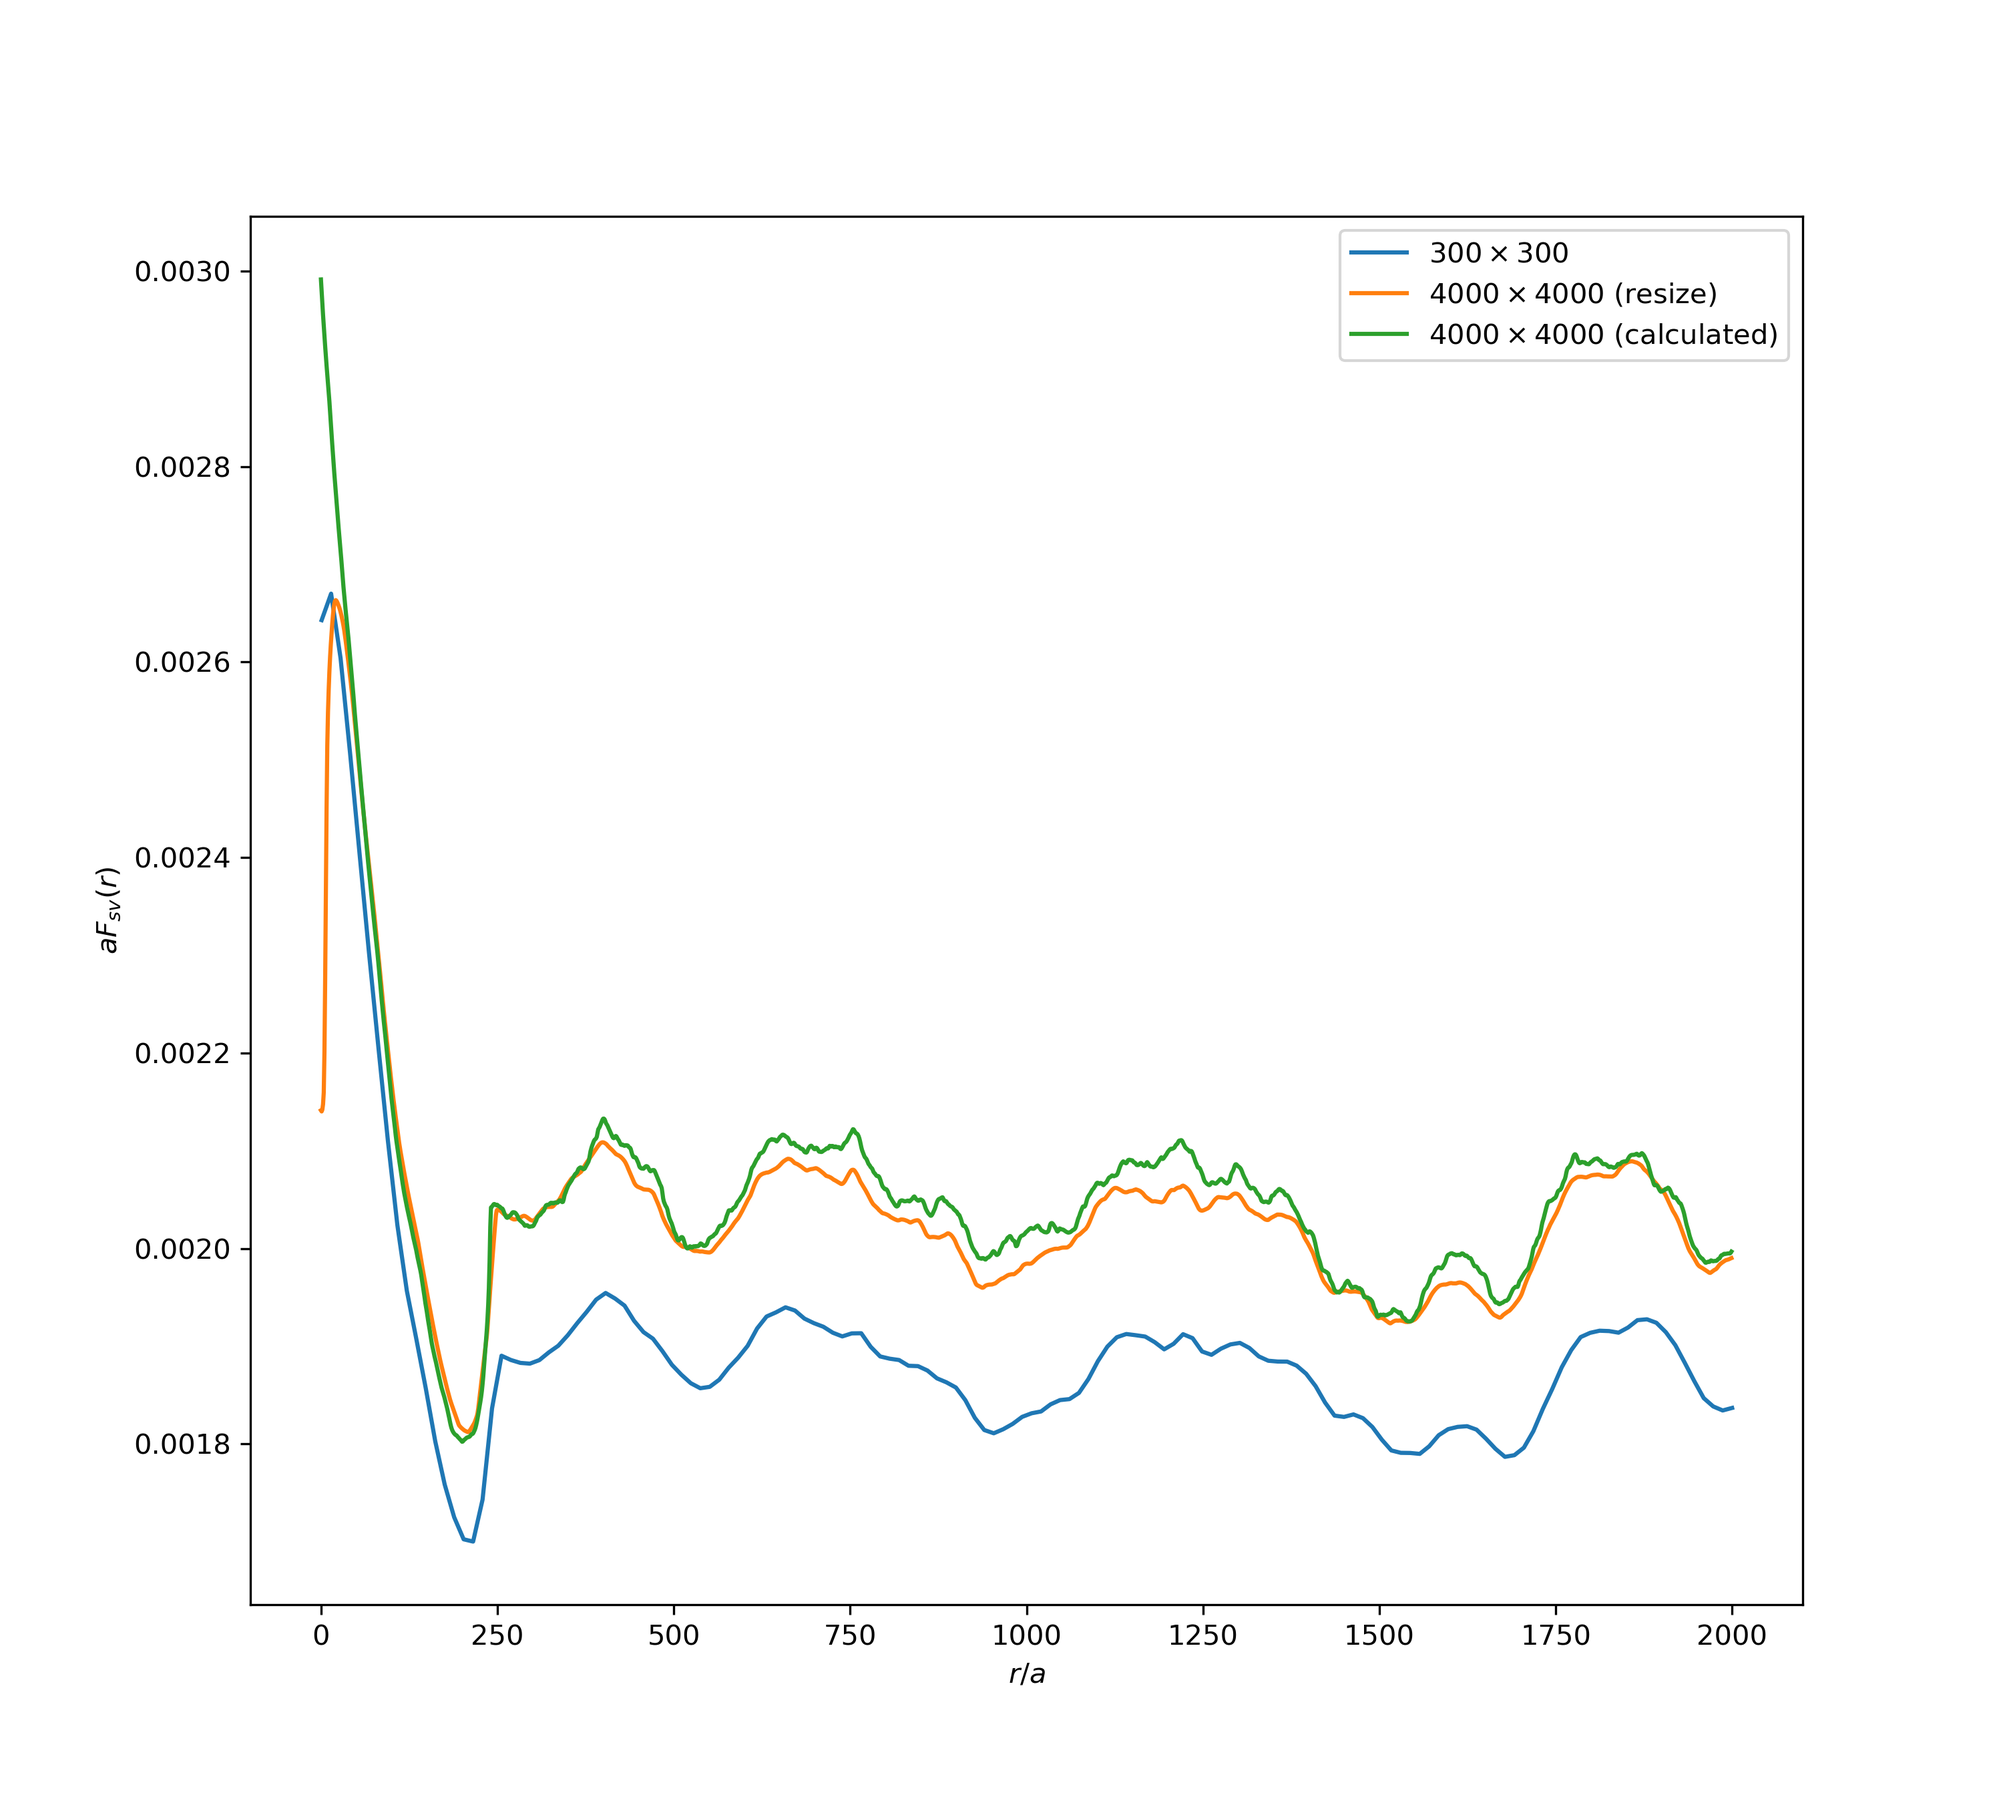
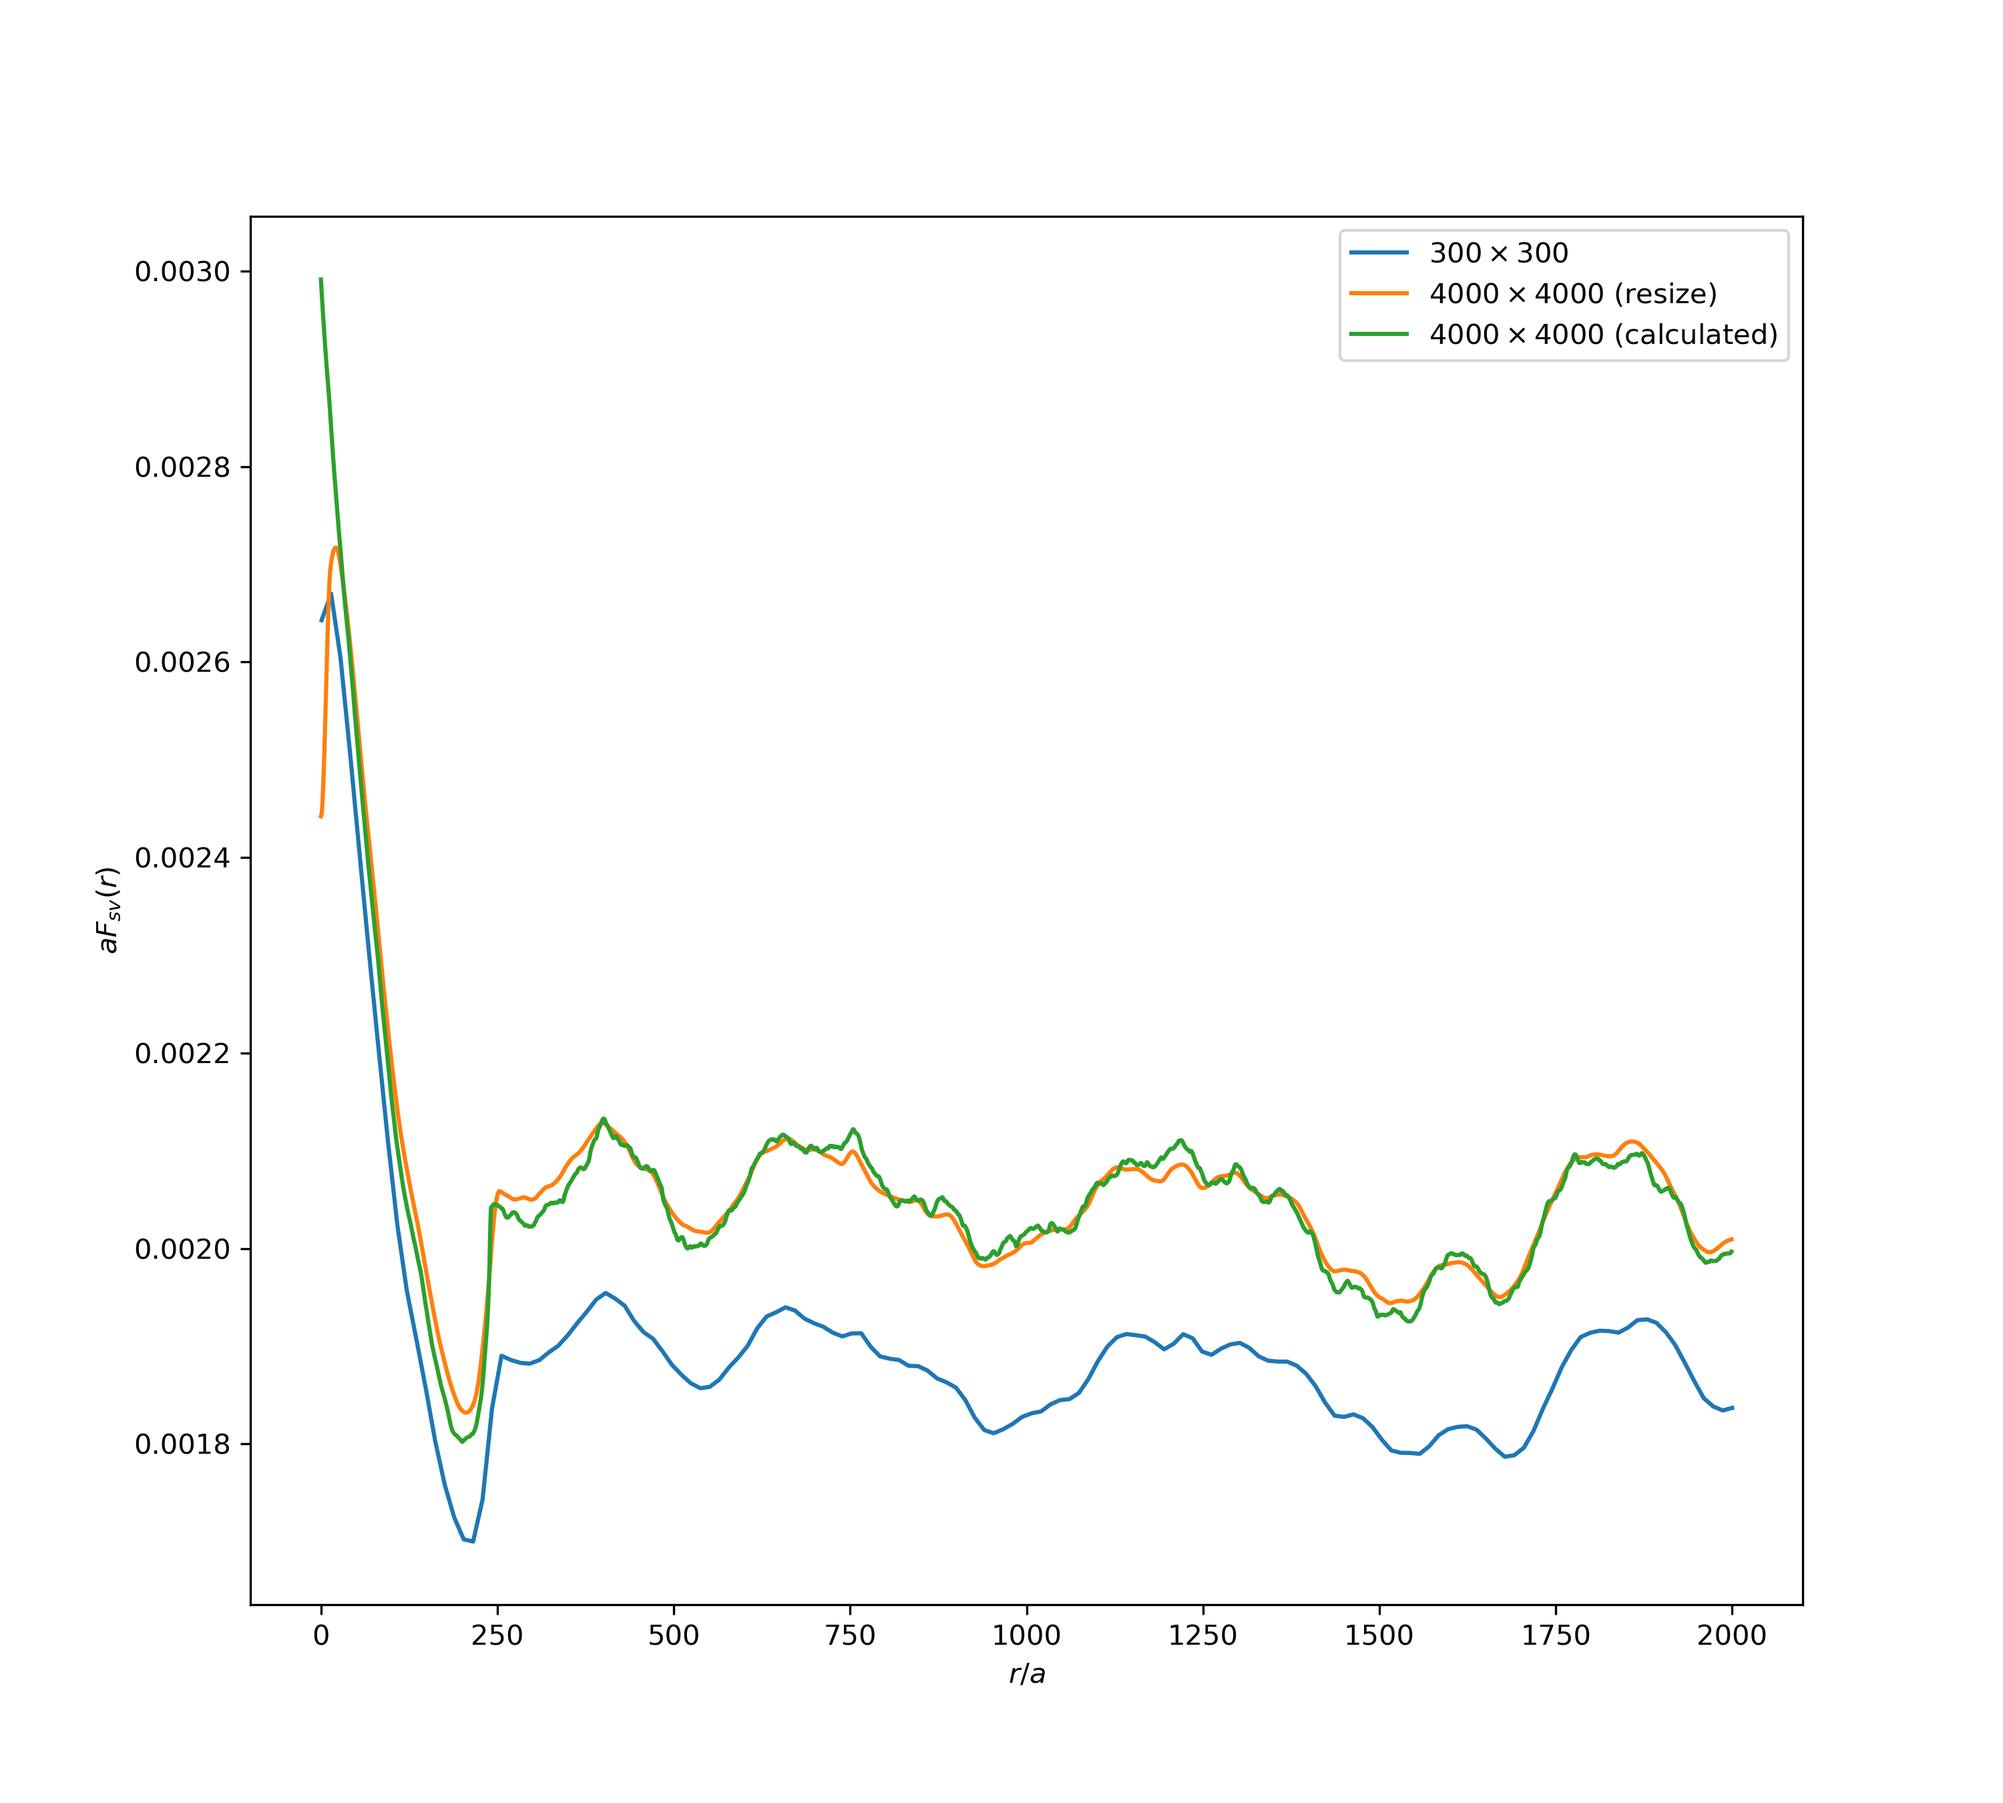
Write a bit more about indicator functions

diff --git a/surf-surf.tex b/surf-surf.tex
@@ -542,15 +542,14 @@ correlation functions for continuous function $f$.
 You can use resizing to obtain images of higher dimensionality and calculate
 surface functions for resized images to get more accurate result. Because a
 resized image becomes grayscale we use the following function as an indicator
-for the void phase, provided the void phase is marked as 0 in the original
-image:
+for the void phase provided the void phase is marked as 0 in the original image:
 \begin{equation*}
-  I^{(void)}(x) = \left\{
-  \begin{array}{ll}
-    1 & \quad x < 0.3 \\
-    0 & \quad \text{otherwise}
-  \end{array} \right.
+  I^{(void)}(x) = (1 - x)^{1.5}
 \end{equation*}
+Assuming an original small image is already two-phase we use the following
+indicator function used to reduce multiphase image to two phases: $I(x) = x$
+which is simply an identity function.
+
 All interpolation methods are good for resizing purposes with exception of
 nearest-neighbor. At \cref{fig:resized} you can see images of overlapped disks
 with almost same surface-surface and surface-void functions. Correlation
